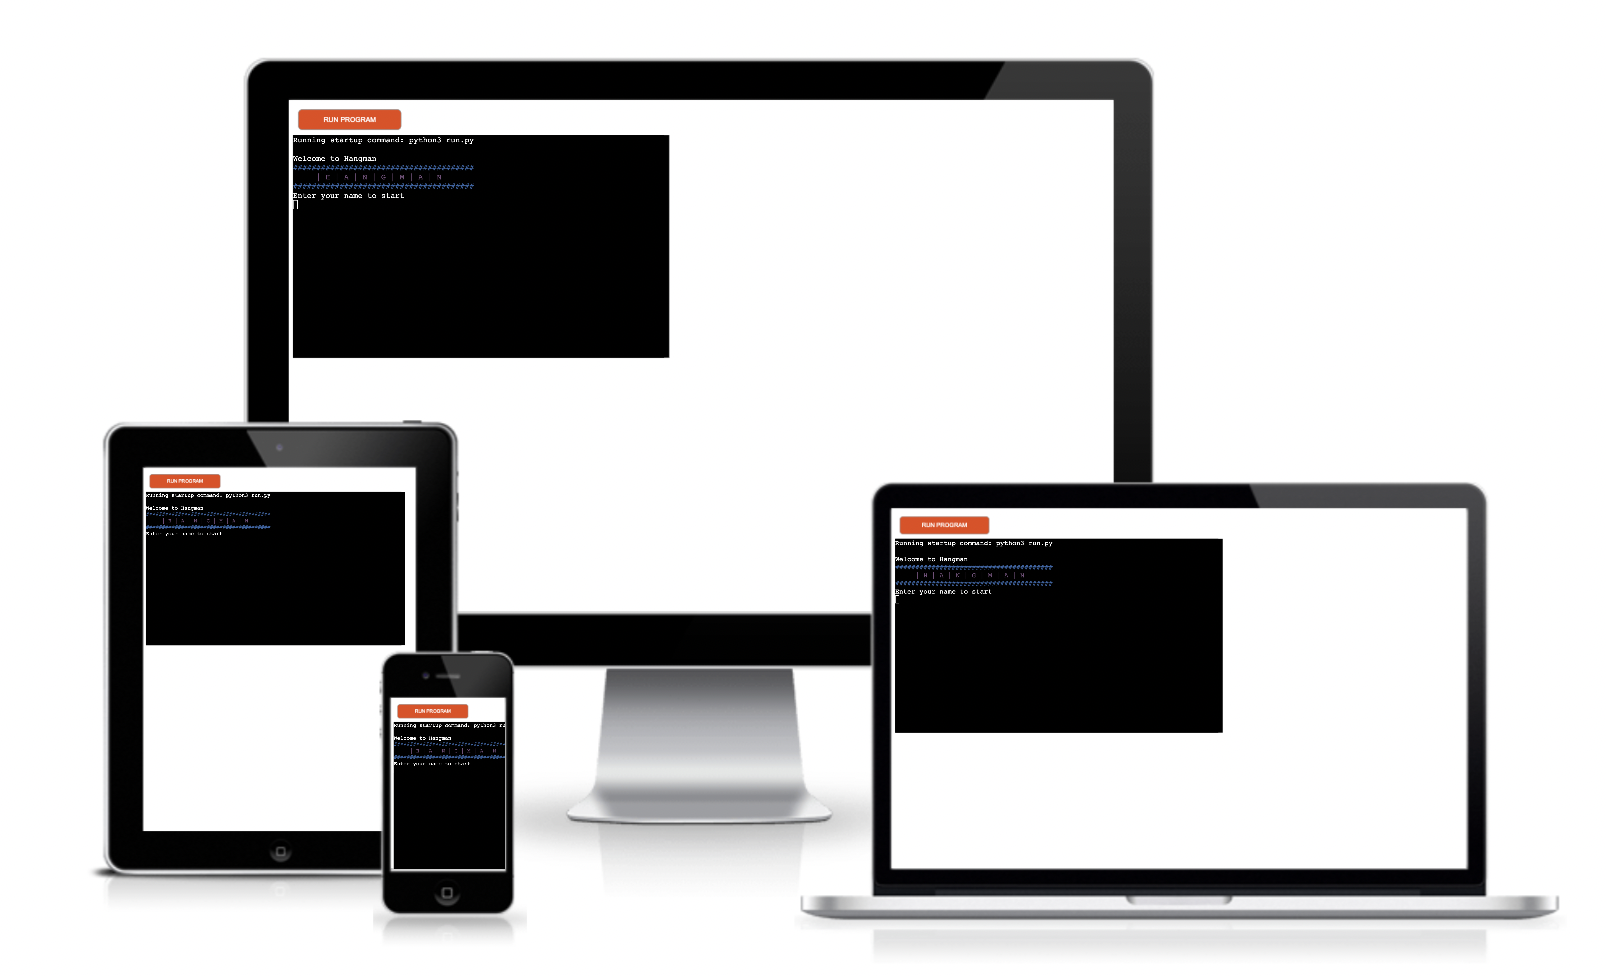
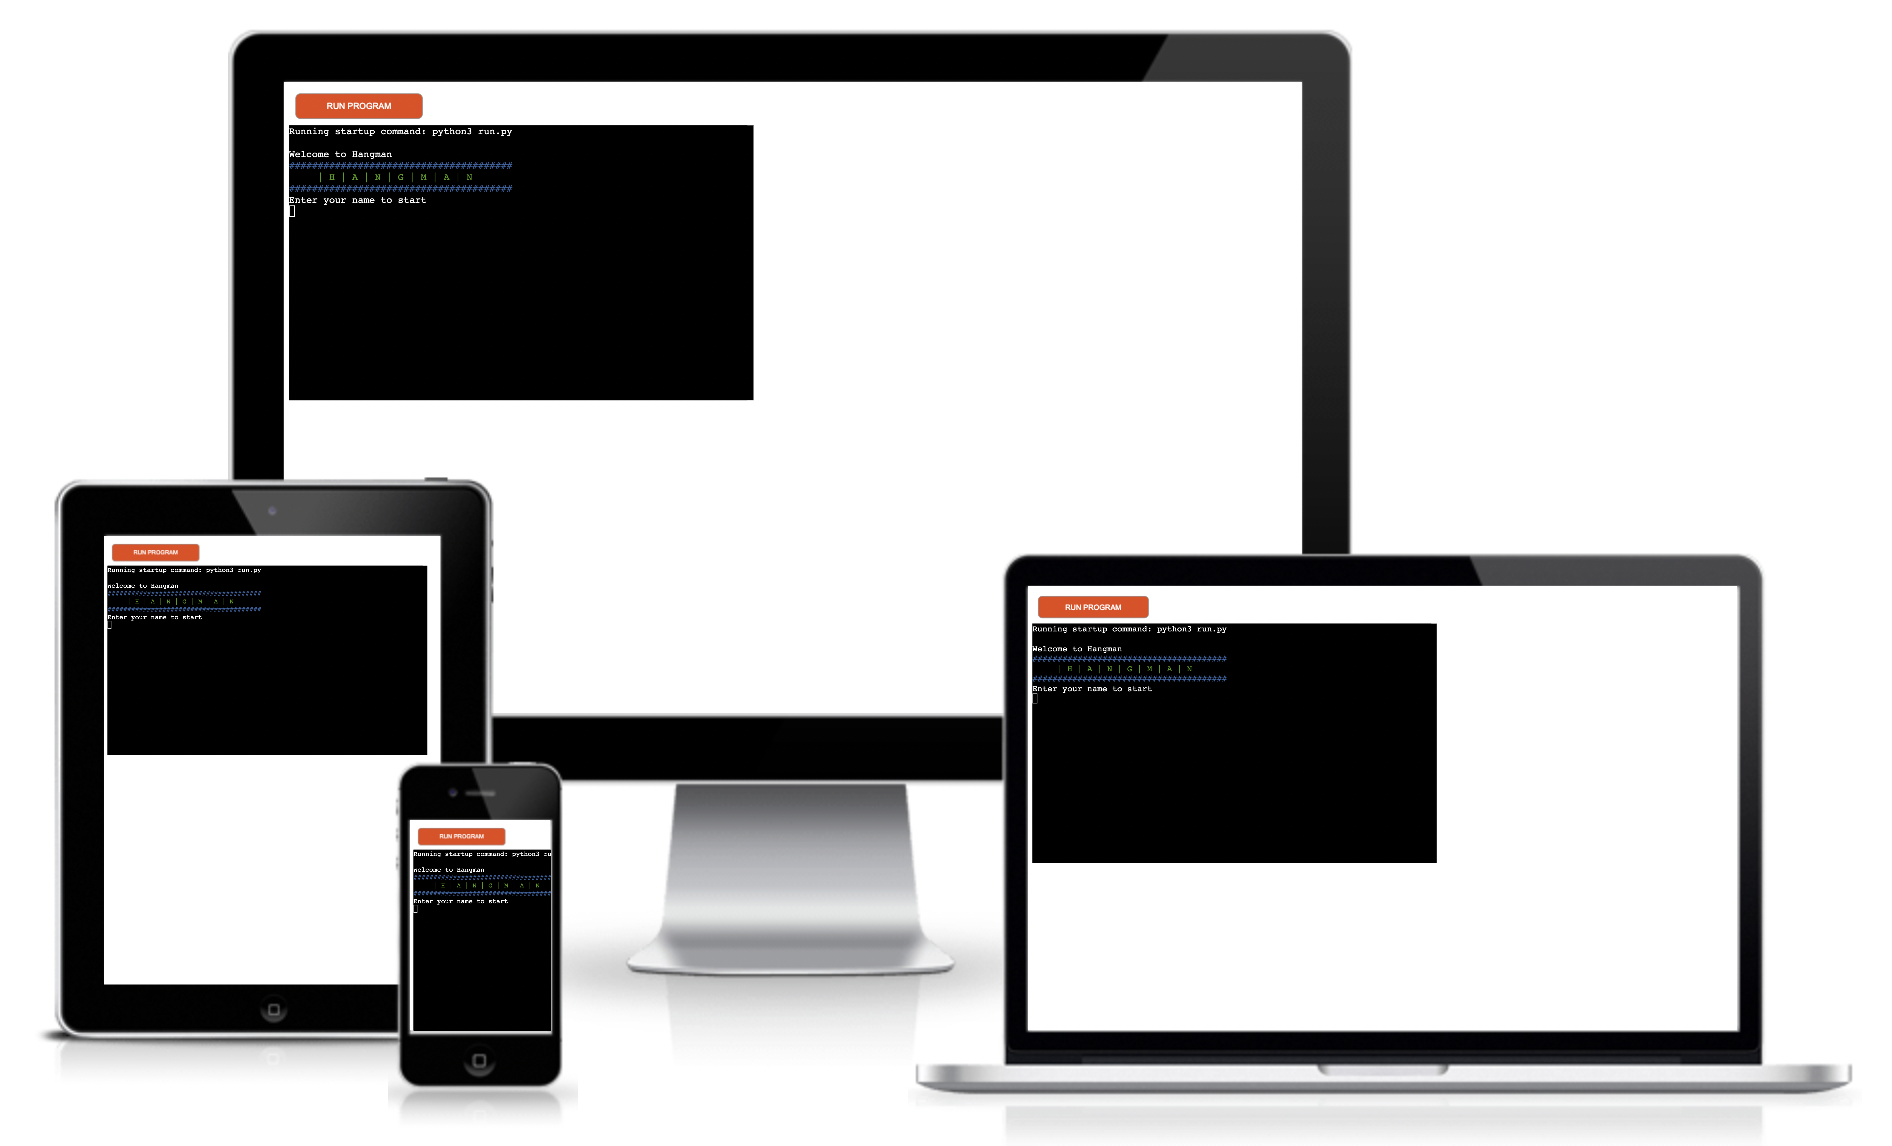
add text and image to readme.md

Changed region(s): [[0.0311, 0.0, 0.9963, 0.9836]]

diff --git a/README.md b/README.md
@@ -14,6 +14,8 @@ The live link can be found here [Emmas hangman](https://emmas-hangman.herokuapp.
 
 The game features a welcome message to the user. To start the game the user needs to enter their name. The name must be letters only, if the user puts number an error message will appear. says "Username must be alphabets only".
 
+![welcome image](/assets/welcome.png)
+
 ## Testing
 * Tested for various bugs and functionality.
 * tested for all scenarios with invalid guesses.
